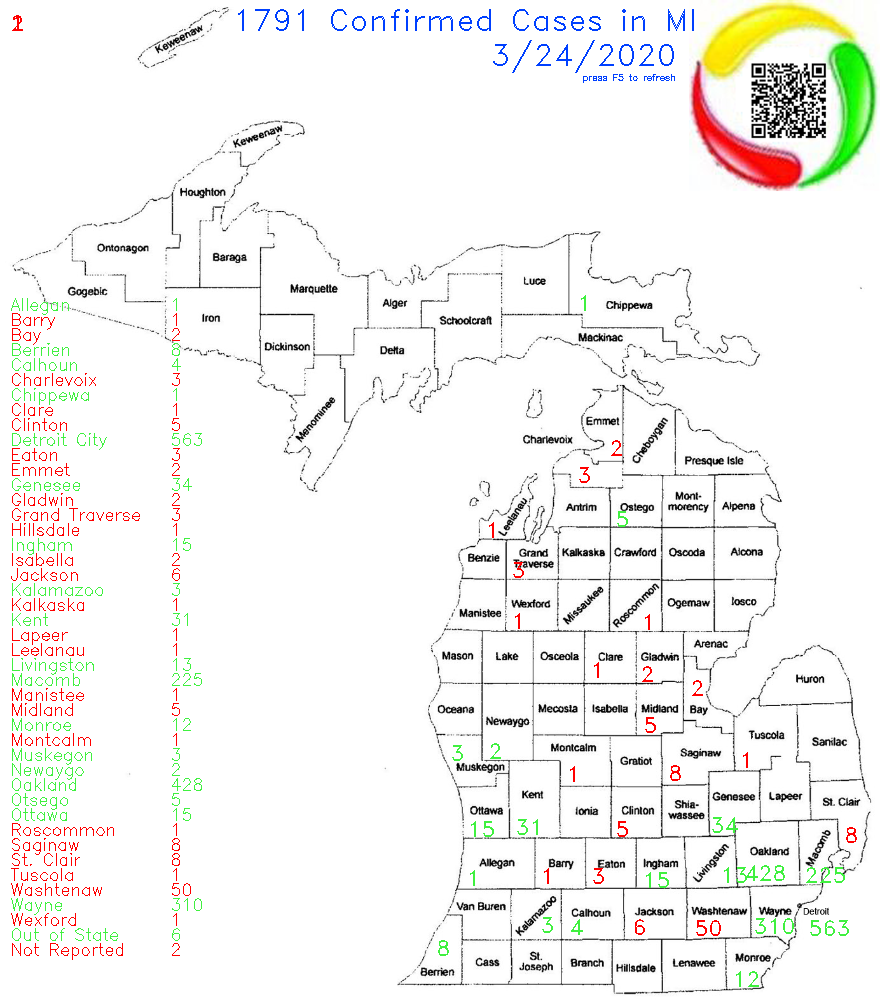
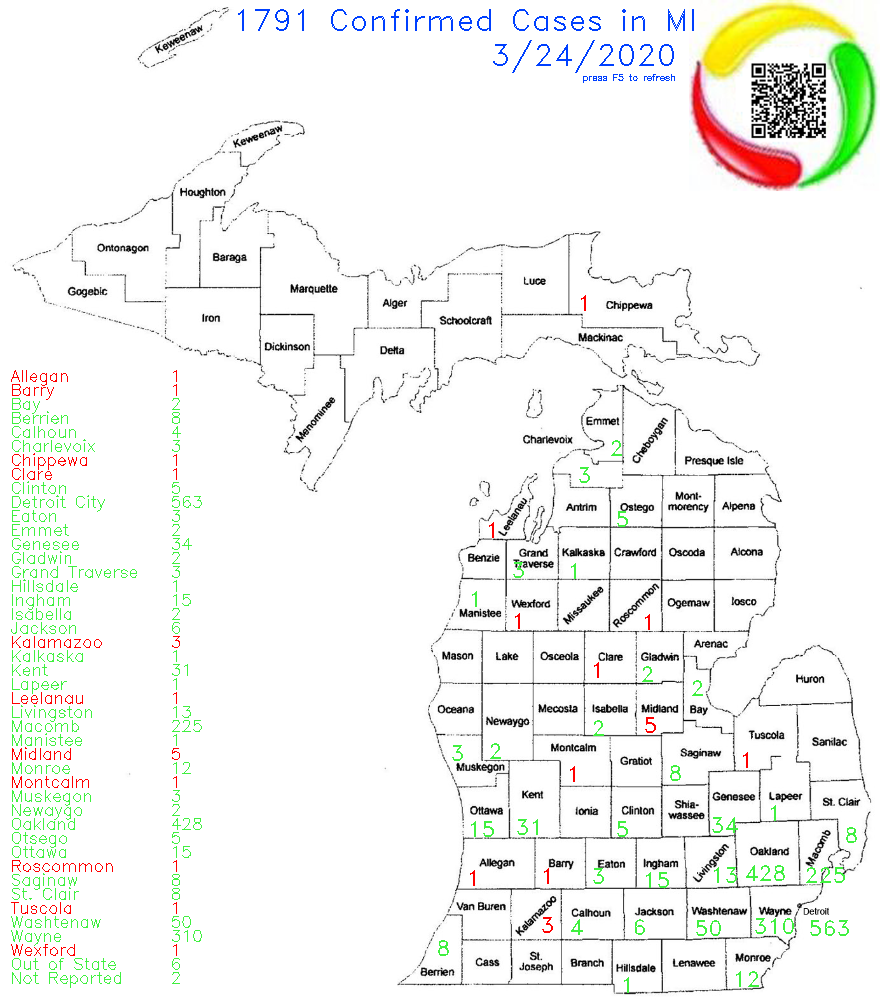
update data 3/24/2020

diff --git a/virusviz18.py b/virusviz18.py
@@ -68,7 +68,7 @@ class runVirusViz(object):
                 ['Kent',	28, 515, 834, (64,240,64)],
                 ['Lapeer',	1, 767, 820, (64,240,64)],
                 ['Leelanau',	1, 485, 537, (0,0,255)],
-                ['Livingston',	9, 720, 882, (64,240,64)],
+                ['Livingston',	9, 710, 882, (64,240,64)],
                 ['Macomb',	175, 804, 882, (64,240,64)],
                 ['Manistee',	1, 468, 606, (64,240,64)],
                 ['Midland',     5, 643,732, (0,0,255)],
@@ -212,8 +212,9 @@ class runVirusViz(object):
     ## show cases on the map
     def infoShowCases(self, img, l_cases):
         wish_total = 0
-        n_total, ii = 0, 0		
-        offset_h = VIZ_H - 15 * len(l_cases)
+        n_total, ii = 0, 0
+	line_h=14	
+        offset_h = VIZ_H - line_h * len(l_cases)+25
         for a_case in l_cases:
             if('County' in a_case[0]):
                 continue
@@ -225,19 +226,20 @@ class runVirusViz(object):
                 map_data = self.lookupMapData(a_case[0])
                 # draw the list on the left
                 cv2.putText(img, a_case[0], 
-		        (10, ii*15+offset_h), 
+		        (10, ii*line_h+offset_h), 
 		        cv2.FONT_HERSHEY_SIMPLEX, 
-		        0.55,
+		        0.54,
 		        map_data[4],
 		        1) 
                 cv2.putText(img, str(a_case[1]), 
-		        (170, ii*15+offset_h), 
+		        (170, ii*line_h+offset_h), 
 		        cv2.FONT_HERSHEY_SIMPLEX, 
-		        0.55,
+		        0.54,
 		        map_data[4],
 		        1) 
                 ii += 1
                 if('Out of State' in a_case[0]): continue
+                if('Not Reported' in a_case[0]): continue
                 # draw on the map, select the location
                 cv2.putText(img, str(a_case[1]), 
 		        (map_data[2],map_data[3]), 
